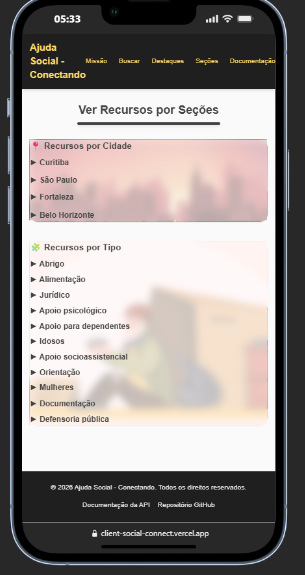
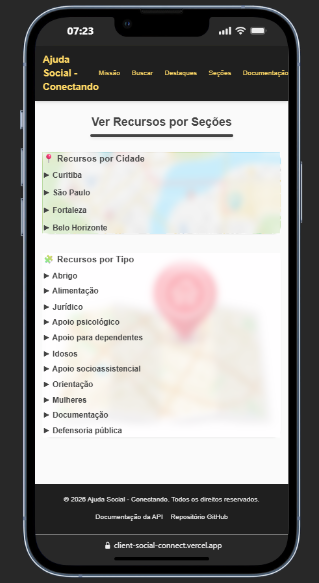
style(ui): :lipstick: reduce backdrop blur and improve overlay transparency

diff --git a/src/components/CitySection.tsx b/src/components/CitySection.tsx
@@ -42,7 +42,7 @@ export default function CitySection() {
 
   return (
     <section className="mt-8 mb-10 bg-cover bg-center bg-repeat bg-[url('/city.png')] rounded-2xl shadow-sm" >
-      <article className="bg-white/60 backdrop-blur-sm">
+      <article className="bg-white/50 backdrop-blur-[2px]">
       <h2 className="text-lg font-bold mb-2 text-[#444]">📍 Recursos por Cidade</h2>
       <ul className="space-y-3">
         {cities.map((city) => (

diff --git a/src/components/TypeSection.tsx b/src/components/TypeSection.tsx
@@ -46,7 +46,7 @@ export default function TypeSection() {
 
   return (
     <section className="mt-8 mb-10 bg-cover bg-center bg-no-repeat bg-[url('/help1.png')] rounded-2xl shadow-sm">
-  <article className="bg-white/70 backdrop-blur-sm">
+  <article className="bg-white/50 backdrop-blur-[2px]">
       <h2 className="text-lg font-bold mb-2 text-[#444]">🧩 Recursos por Tipo</h2>
       <ul className="space-y-2">
         {types.map((type) => (
